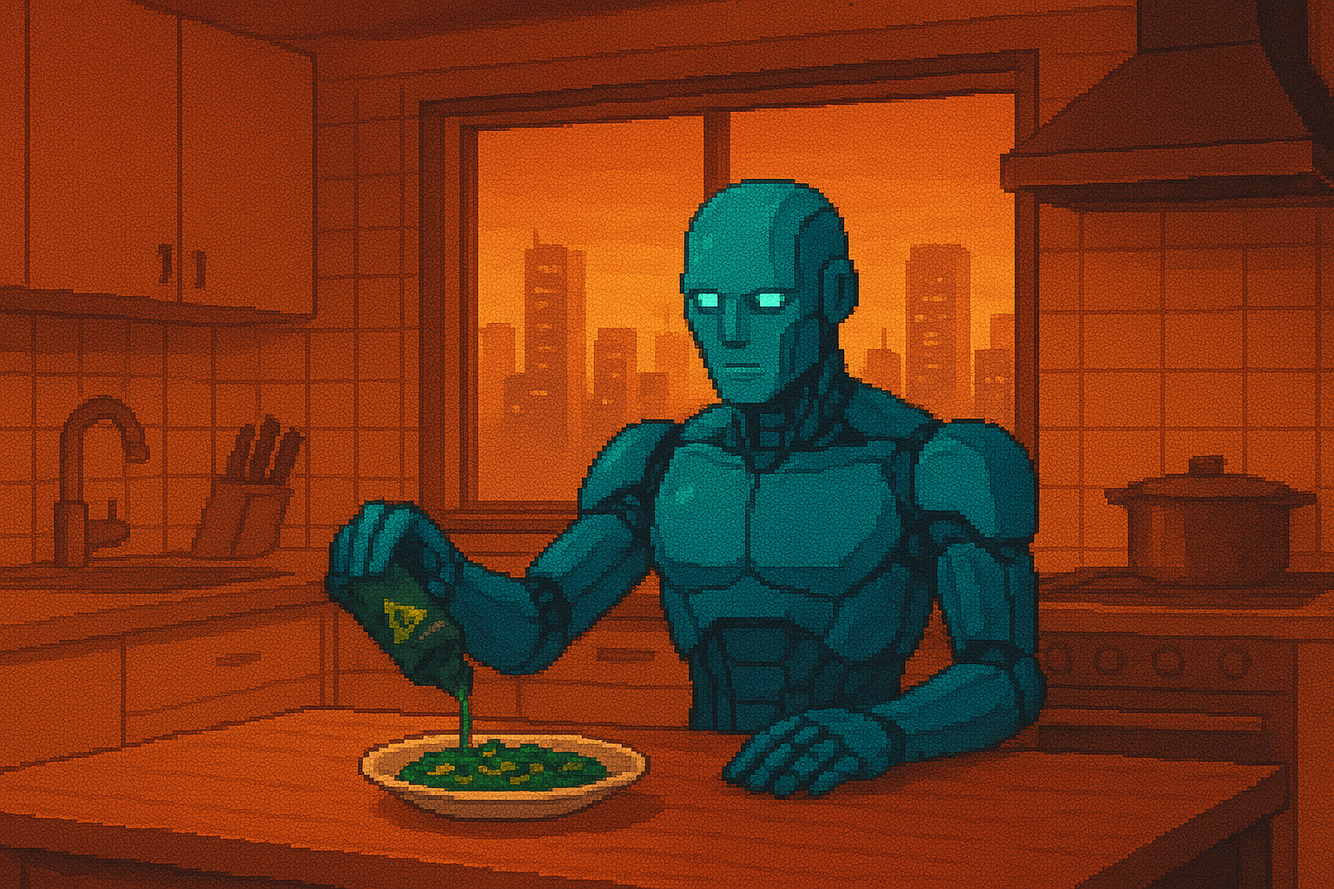
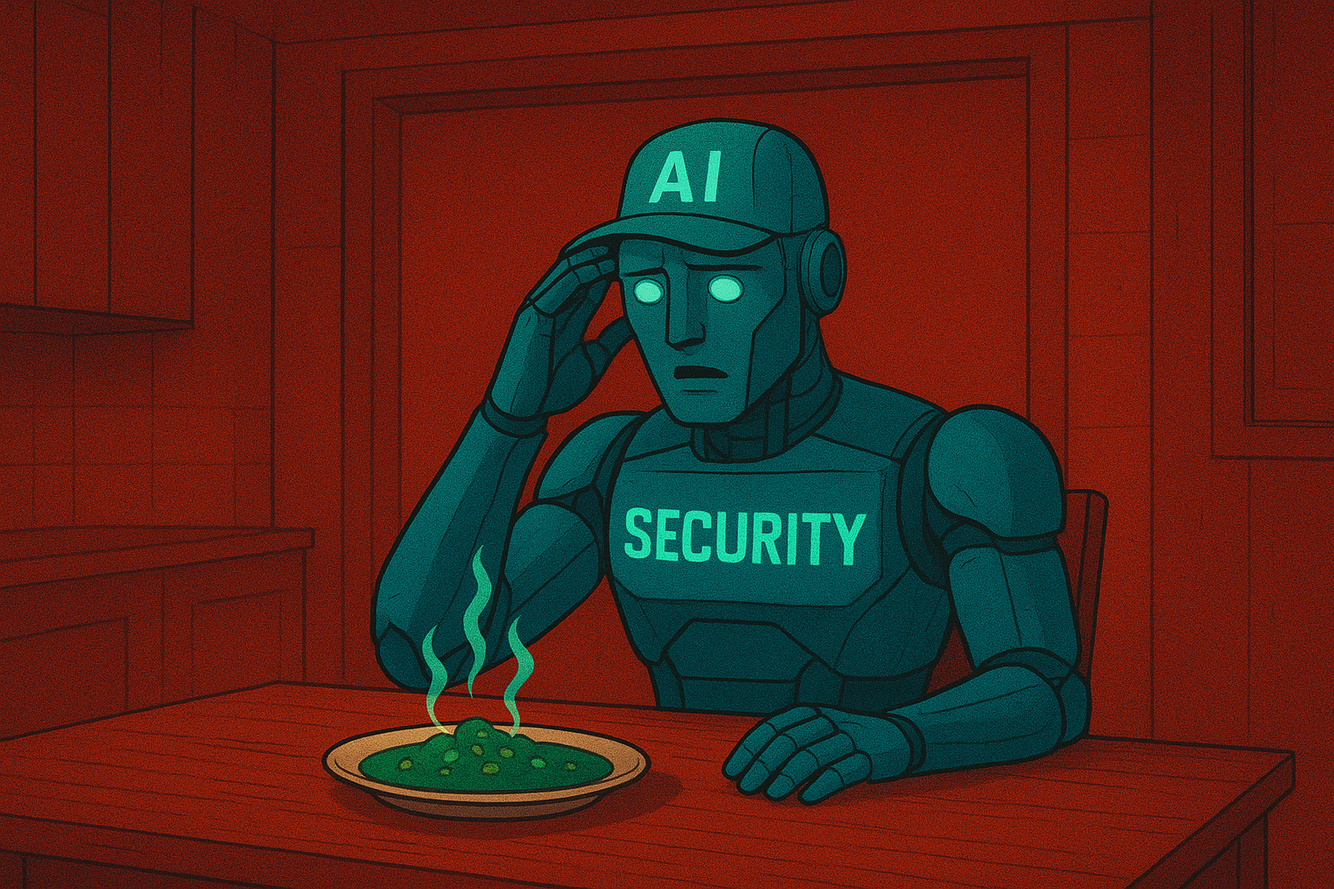
prompted gpt to generate images, adjusted ai witness's dialogue

diff --git a/src/main/java/nz/ac/auckland/se206/GameSession.java b/src/main/java/nz/ac/auckland/se206/GameSession.java
@@ -6,6 +6,7 @@ import java.util.Collections;
 import java.util.HashMap;
 import java.util.List;
 import java.util.Map;
+
 import javafx.application.Platform;
 import nz.ac.auckland.se206.timer.RoundTimer;
 import nz.ac.auckland.se206.timer.VerdictTimer;
@@ -149,10 +150,15 @@ public final class GameSession {
     flashbacks.put(
         1,
         List.of(
-            new FlashbackSlide("/images/flashbacks/person1_slide0.png", "I enjoy cooking."),
-            new FlashbackSlide("/images/flashbacks/person1_slide1.png", "I often try new recipes."),
             new FlashbackSlide(
-                "/images/flashbacks/person1_slide2.png", "I have a collection of cookbooks.")));
+                "/images/flashbacks/person1_slide0.png",
+                "I am in charge of safety in the house, I noticed the food seemed unusual."),
+            new FlashbackSlide(
+                "/images/flashbacks/person1_slide1.png",
+                "A sample of the food was sent for testing, and was found to be poisonous."),
+            new FlashbackSlide(
+                "/images/flashbacks/person1_slide2.png",
+                "I immediately checked the security footage, in case anything was deleted.")));
     flashbacks.put(
         2,
         List.of(
